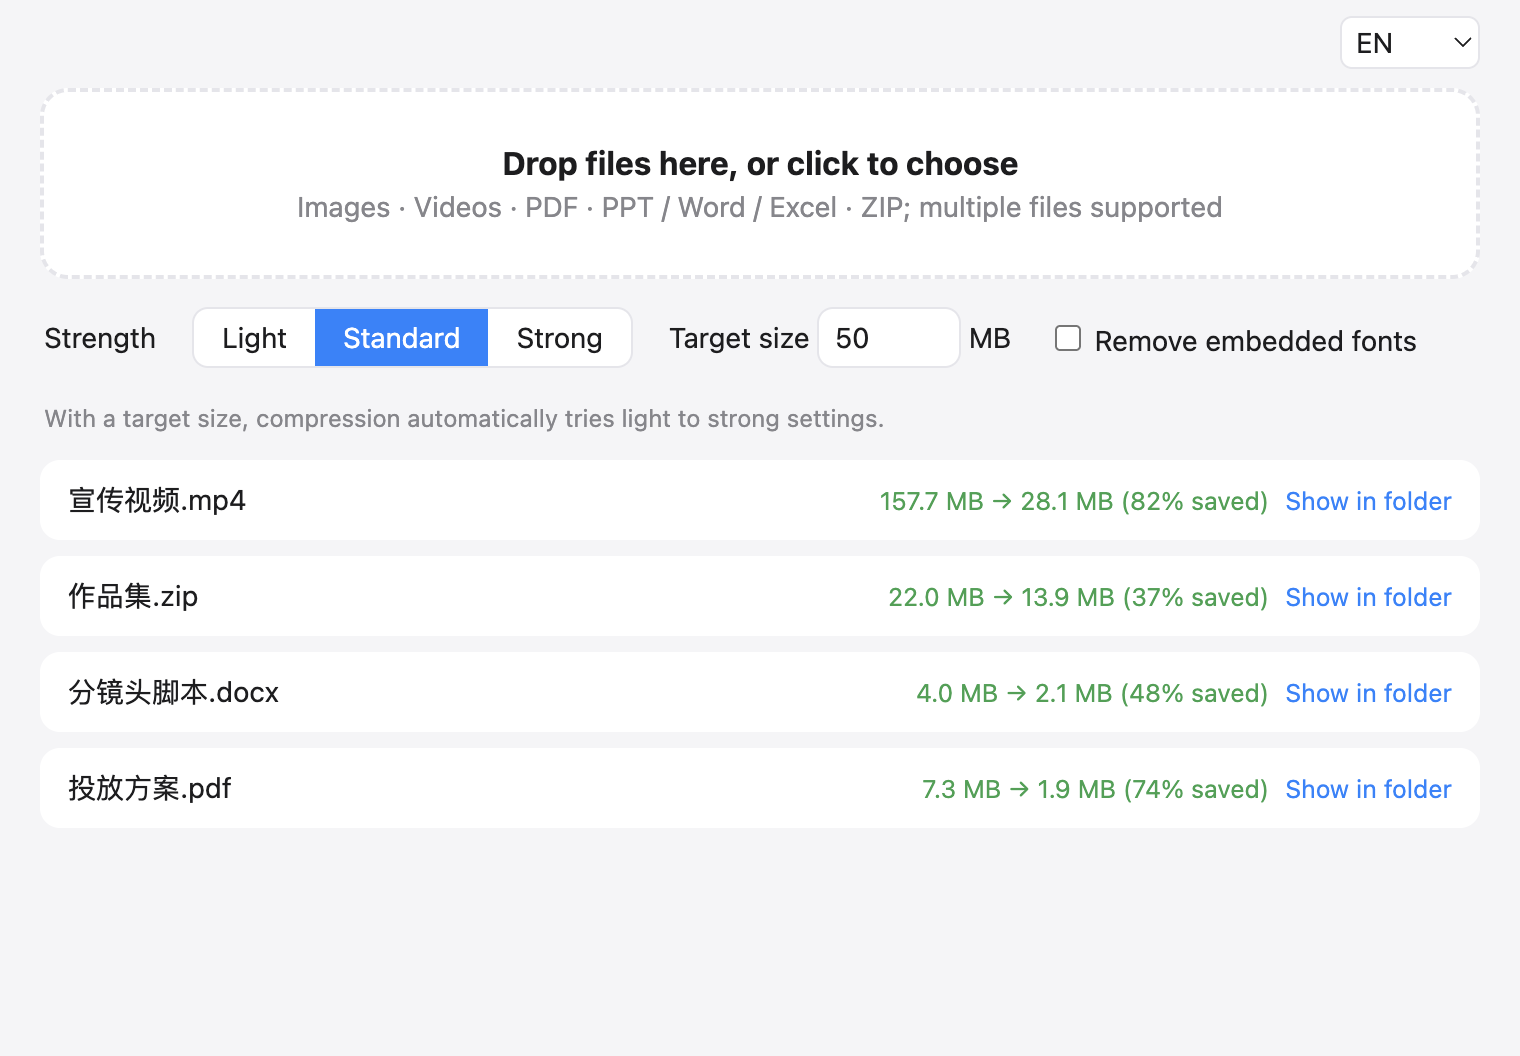
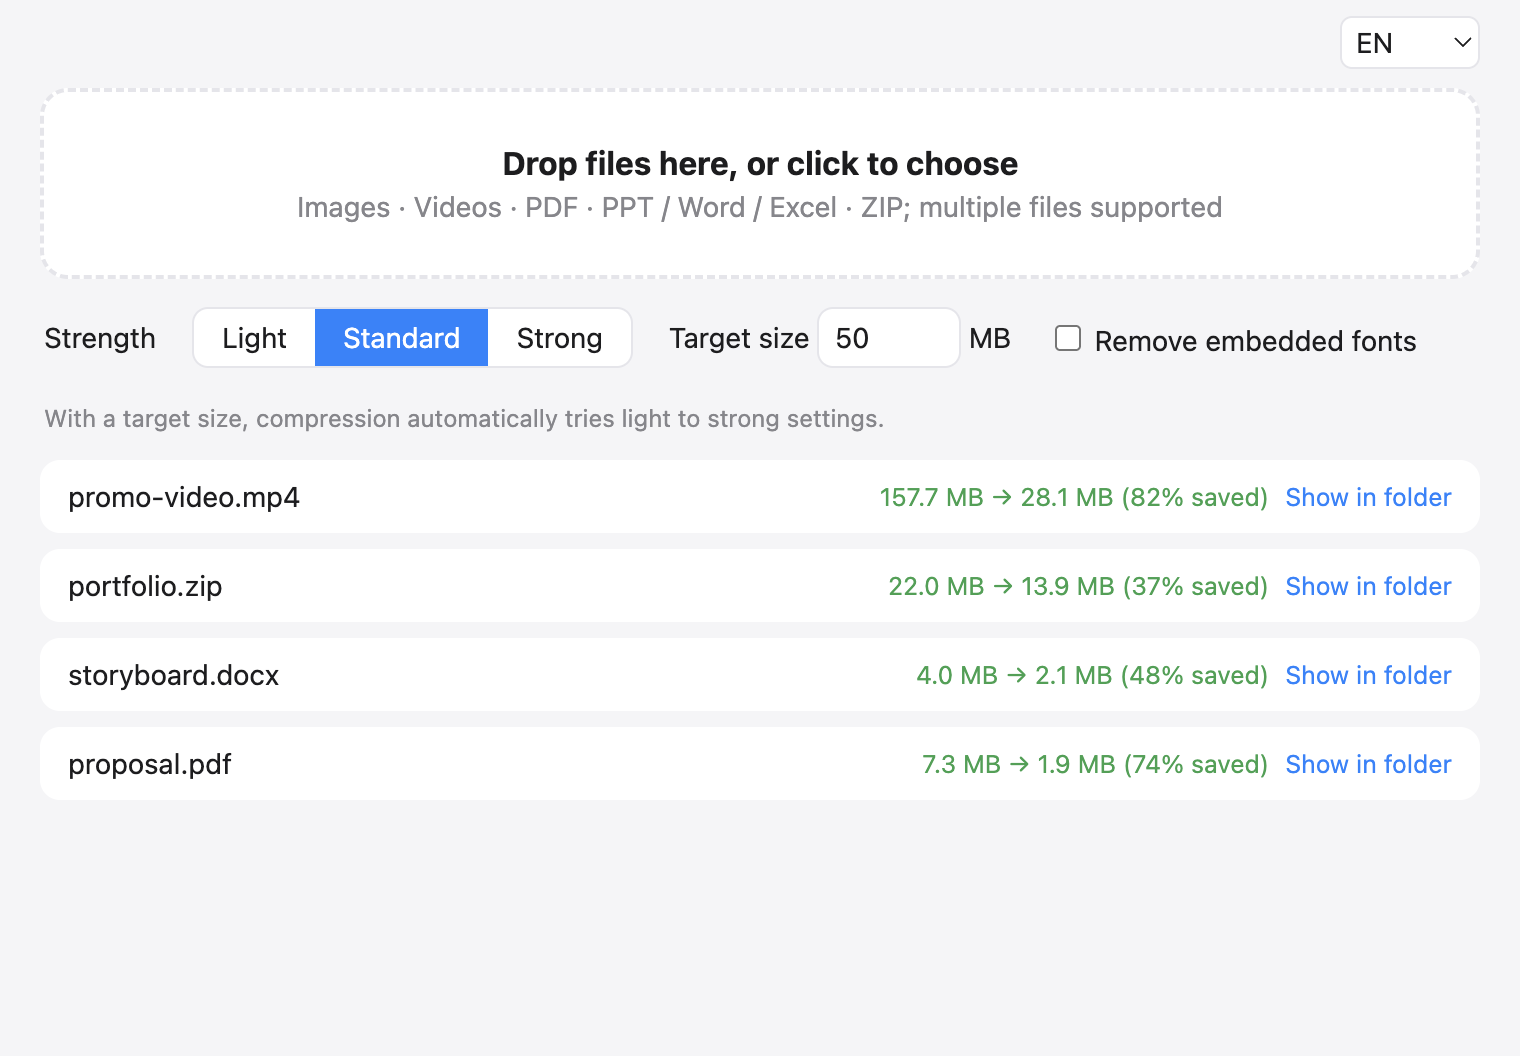
fix: localize example filenames in translated screenshots

diff --git a/scripts/screenshot.js b/scripts/screenshot.js
@@ -10,6 +10,11 @@ process.on('exit',()=>fs.rmSync(profile,{recursive:true,force:true}));
 const language = process.argv[2] || 'zh-CN';
 if (!['zh-CN', 'en', 'ja'].includes(language)) throw new Error('Unsupported screenshot language');
 process.env.COMPRESS_SCREENSHOT_LANG = language;
+const demoNames = {
+  'zh-CN': ['宣传视频.mp4', '作品集.zip', '分镜头脚本.docx', '投放方案.pdf'],
+  en: ['promo-video.mp4', 'portfolio.zip', 'storyboard.docx', 'proposal.pdf'],
+  ja: ['プロモーション動画.mp4', 'ポートフォリオ.zip', '絵コンテ.docx', '企画書.pdf'],
+};
 app.whenReady().then(async () => {
   try {
     const win = new BrowserWindow({ width: 760, height: 560, show: false, webPreferences: { contextIsolation: false, preload: path.join(__dirname, 'mock-preload.js') } });
@@ -17,11 +22,12 @@ app.whenReady().then(async () => {
     await win.webContents.executeJavaScript(`window.i18nReady`);
     await win.webContents.executeJavaScript(`
       setLanguage(${JSON.stringify(language)});
+      const names = ${JSON.stringify(demoNames[language])};
       const demo = [
-        ['宣传视频.mp4', 157.7e6, 28.1e6, 82],
-        ['作品集.zip', 22e6, 13.9e6, 37],
-        ['分镜头脚本.docx', 4e6, 2.1e6, 48],
-        ['投放方案.pdf', 7.3e6, 1.9e6, 74],
+        [names[0], 157.7e6, 28.1e6, 82],
+        [names[1], 22e6, 13.9e6, 37],
+        [names[2], 4e6, 2.1e6, 48],
+        [names[3], 7.3e6, 1.9e6, 74],
       ];
       const list = document.getElementById('list');
       for (const [name, before, after, percent] of demo) {

diff --git a/docs/i18n-validation.md b/docs/i18n-validation.md
@@ -4,7 +4,7 @@
 
 - `node scripts/test.mjs`：17/17 通过。包括三语字典键/非空/占位一致、英文无中日文字、日文不直接复制中文、9 种核心结果 code 均有译文、系统语言映射、HTML 无硬编码中日文、三语输出后缀与重名编号、转换扩展名后的重名保护、实际图片/视频/Office 压缩与结构化错误。
 - `npm run test:ui`：Electron 实际加载界面，验证系统日语默认值、即时切换、已完成结果与错误重译、标题/占位/文件夹链接、语言传入压缩核心及重启恢复偏好。使用独立临时 profile，不改用户已有偏好。
-- `npx electron scripts/screenshot.js en` / `ja`：生成 `docs/screenshot-en.png`、`docs/screenshot-ja.png`，已实际查看。沿用原中文截图的四个示例文件名及数字，界面说明和结果标签按所选语言显示。
+- `npx electron scripts/screenshot.js en` / `ja`：生成 `docs/screenshot-en.png`、`docs/screenshot-ja.png`，已实际查看。四个示例文件名按所选语言本地化，压缩数字保持与原中文截图一致；界面说明和结果标签按所选语言显示。
 - `git diff --check`：通过。Claude 的 README.md、README.en.md、README.ja.md 用 SHA-256 对照修改前副本，内容未改。
 
 压缩算法和 productName、appId、安装包命名模板不变。主进程返回 code/params，渲染层按当前语言显示；外部工具原始报错只作为 detail 插入已翻译的前缀。
